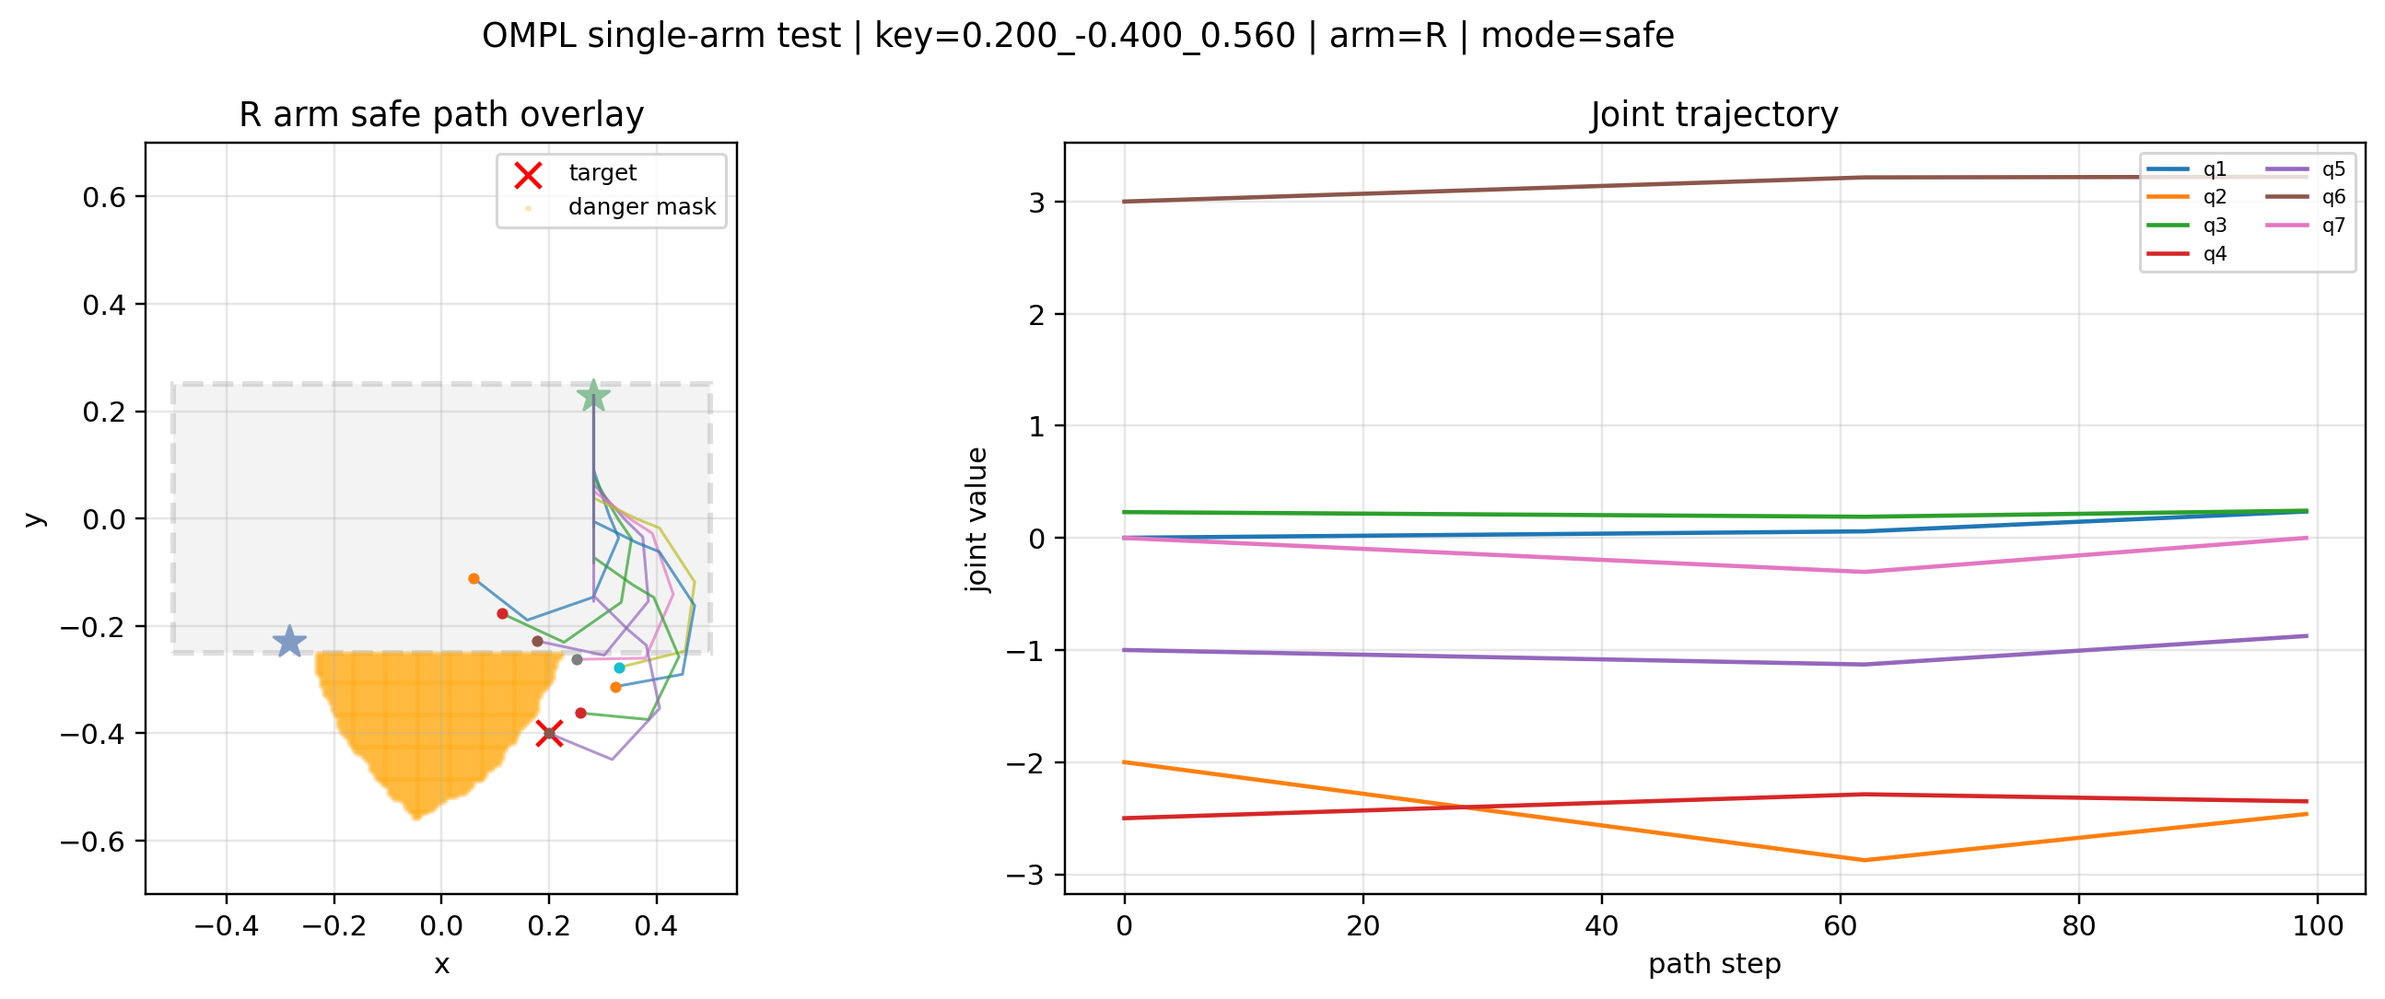
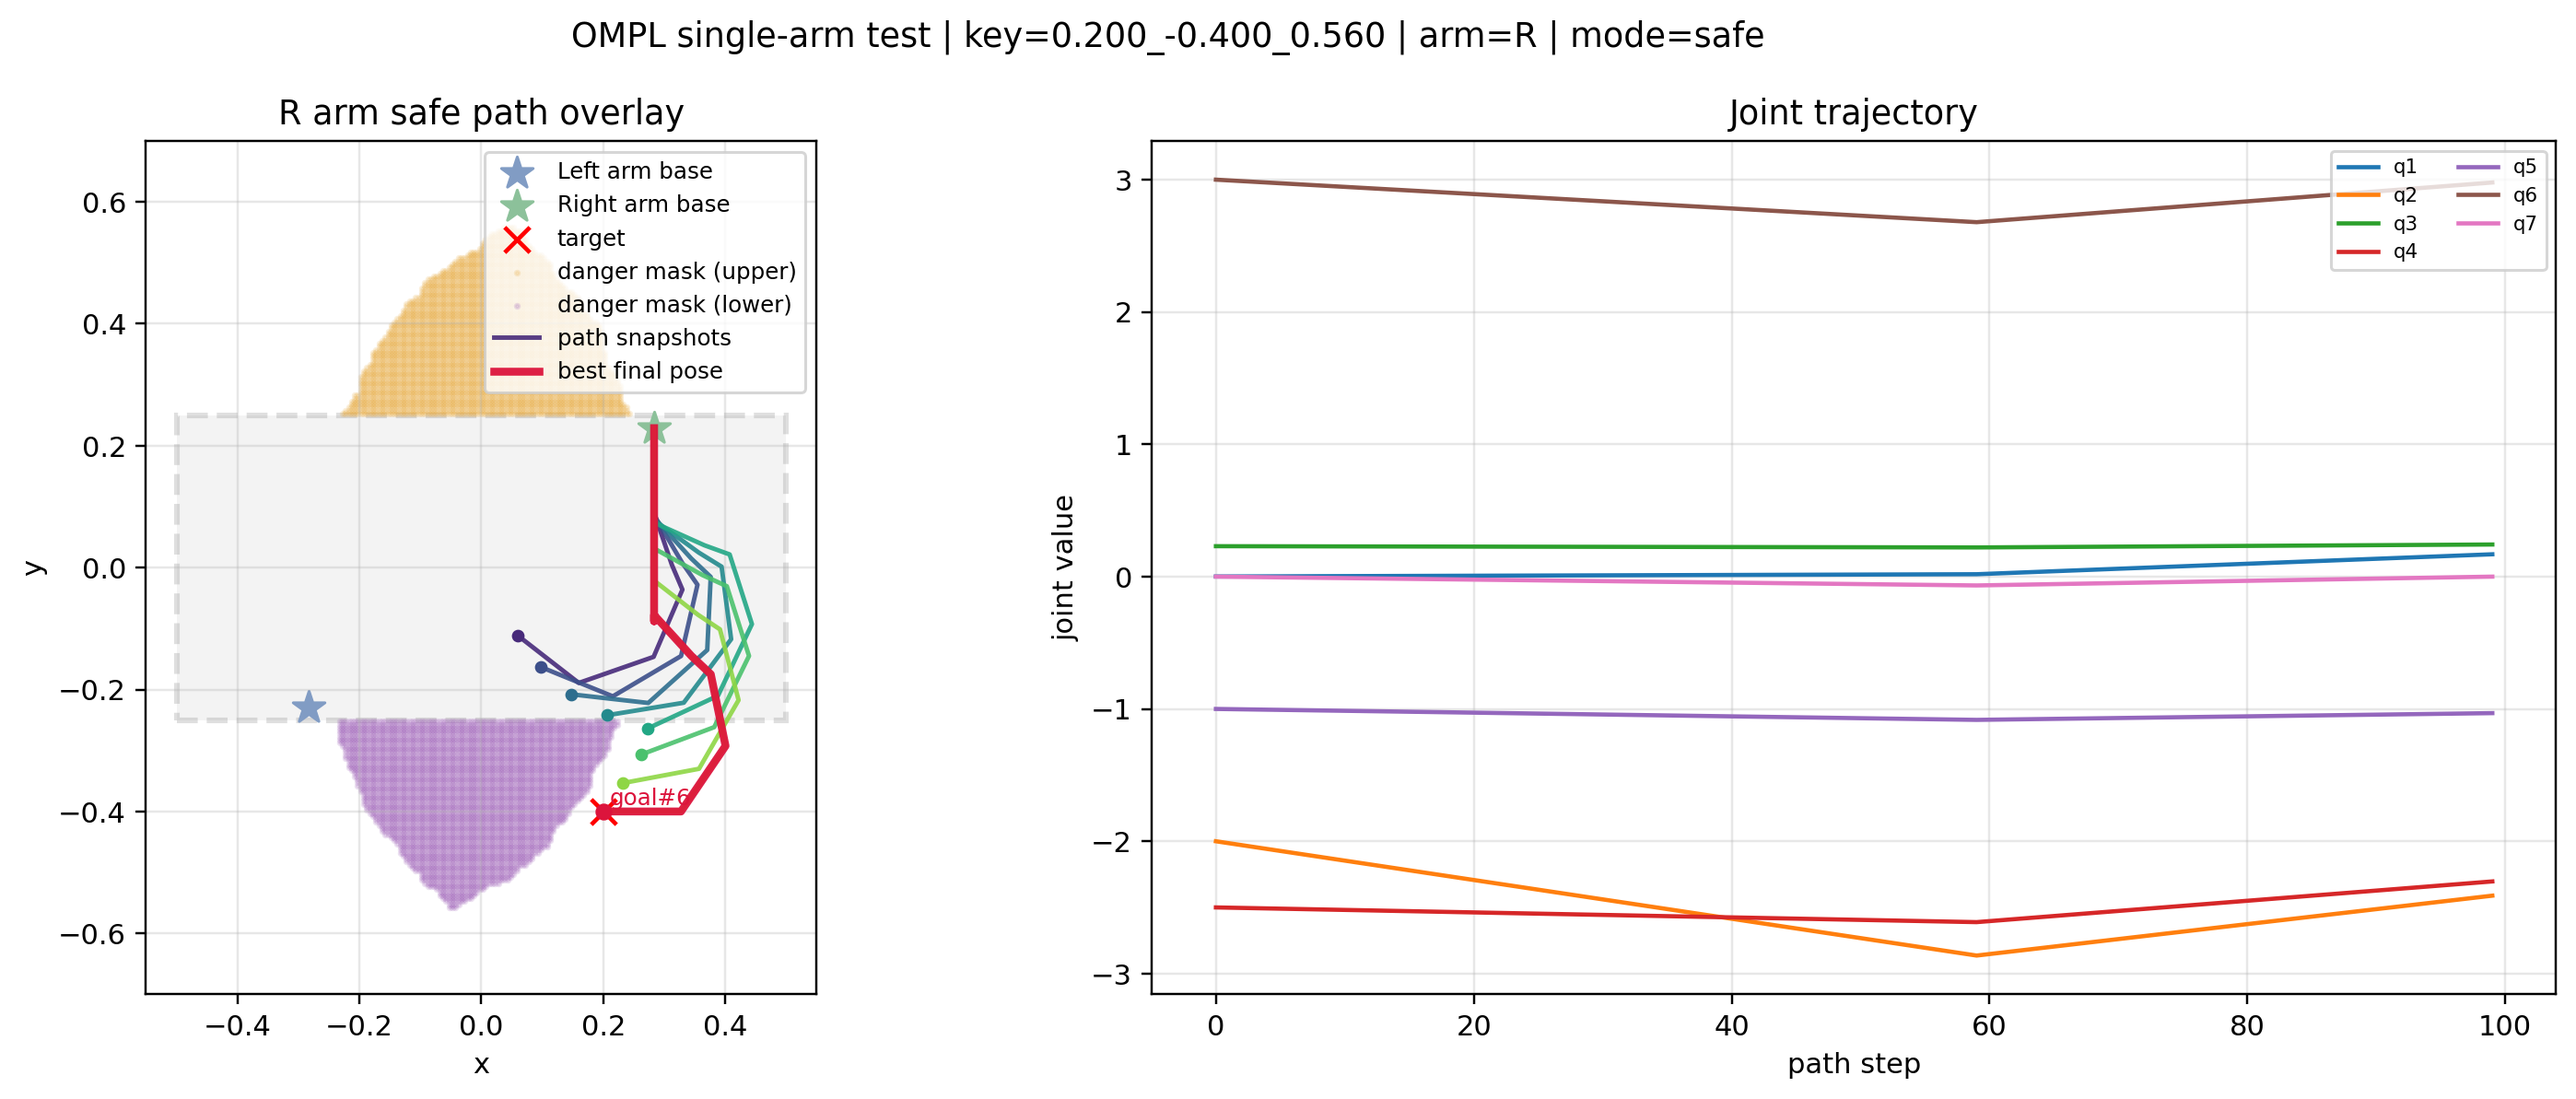
使用ompl生成了一些针对单个目标点的路径规划结果

diff --git a/ompl/test_ompl_single_arm_debug_auto.py b/ompl/test_ompl_single_arm_debug_auto.py
@@ -2,10 +2,12 @@
 """
 OMPL 单臂测试脚本（建议放到项目根目录的 ompl/ 文件夹内使用）
 - 默认从 ../roi/results/ 读取 roi_table_selected_points.pkl 和 danger_zone_data.npz
-- 优先使用 safe 终点解；若点本身在危险区，则直接跳过 safe 搜索转入 fallback
-- mode=auto 时按上述规则自动选择
-- mode=safe 时仅使用 safe 解
-- mode=free 时优先使用 fallback 解，若没有则退回全部 goal_solutions
+- mode=auto: 有 safe 解则优先 safe；若点本身在危险区，则直接使用 fallback/free
+- mode=safe: 只使用 safe 解
+- mode=free: 只使用 fallback 解；若没有则退回全部 goal_solutions
+- 可视化新增：
+    1) 所有 candidate goal 的终点姿态 -> 淡灰色骨架
+    2) best path 最终落到的终点姿态 -> 红色高亮骨架
 """
 import os
 import sys
@@ -193,7 +195,6 @@ def select_goals(arm_data, mode, point_in_danger):
     if mode == "free":
         return (fallback_goals or all_goals), "free"
 
-    # auto
     if point_in_danger:
         return (fallback_goals or all_goals), "free"
     if safe_goals:
@@ -209,25 +210,57 @@ def count_valid_goals(goals, chain, mask_obj):
     return valid
 
 
-def plot_result(out_png, key, arm, used_mode, point_xyz, danger, chain, q_path, T_left, T_right):
-    fig, axes = plt.subplots(1, 2, figsize=(13, 5))
+def nearest_goal_index(best_goal_q, candidate_goals):
+    if best_goal_q is None or not candidate_goals:
+        return None
+    d = [float(np.linalg.norm(np.asarray(g) - np.asarray(best_goal_q))) for g in candidate_goals]
+    return int(np.argmin(d))
+
+
+def plot_result(out_png, key, arm, used_mode, point_xyz, masks_dict, chain, q_path, T_left, T_right, candidate_goals):
+    fig, axes = plt.subplots(1, 2, figsize=(14, 5.5))
+
     ax = axes[0]
     veh = patches.Rectangle((-0.50, -0.25), 1.0, 0.50, linewidth=2, edgecolor="gray", facecolor="lightgray", alpha=0.25, linestyle="--")
     ax.add_patch(veh)
-    ax.scatter(T_left[0, 3], T_left[1, 3], c="#819CC4", marker="*", s=140)
-    ax.scatter(T_right[0, 3], T_right[1, 3], c="#8CC19A", marker="*", s=140)
+    ax.scatter(T_left[0, 3], T_left[1, 3], c="#819CC4", marker="*", s=140, label="Left arm base")
+    ax.scatter(T_right[0, 3], T_right[1, 3], c="#8CC19A", marker="*", s=140, label="Right arm base")
     ax.scatter([point_xyz[0]], [point_xyz[1]], c="red", marker="x", s=80, label="target")
-    if danger is not None:
-        ix, iy = np.where(danger.grid)
-        xs = danger.x_min + (ix + 0.5) * danger.res
-        ys = danger.y_min + (iy + 0.5) * danger.res
-        ax.scatter(xs, ys, s=2, c="orange", alpha=0.2, label="danger mask")
-    if q_path is not None:
+
+    if masks_dict is not None:
+        du = masks_dict["upper"]
+        ix, iy = np.where(du.grid)
+        xs = du.x_min + (ix + 0.5) * du.res
+        ys = du.y_min + (iy + 0.5) * du.res
+        ax.scatter(xs, ys, s=2, c="#e8a838", alpha=0.18, label="danger mask (upper)")
+
+        dl = masks_dict["lower"]
+        ix, iy = np.where(dl.grid)
+        xs = dl.x_min + (ix + 0.5) * dl.res
+        ys = dl.y_min + (iy + 0.5) * dl.res
+        ax.scatter(xs, ys, s=2, c="#9b59b6", alpha=0.18, label="danger mask (lower)")
+
+    # 2) sampled robot postures along the best path (time progression)
+    best_goal_q = None
+    if q_path is not None and len(q_path) > 0:
+        best_goal_q = q_path[-1]
         idxs = np.linspace(0, len(q_path) - 1, min(8, len(q_path))).astype(int)
-        for idx in idxs:
+        cmap = plt.cm.viridis(np.linspace(0.12, 0.95, len(idxs)))
+        for k, idx in enumerate(idxs):
             pts = chain.fk_all_frames(q_path[idx])
-            ax.plot(pts[:, 0], pts[:, 1], "-", lw=1.0, alpha=0.7)
-            ax.plot(pts[-1, 0], pts[-1, 1], "o", ms=3)
+            label = "path snapshots" if k == 0 else None
+            ax.plot(pts[:, 0], pts[:, 1], "-", lw=1.6, alpha=0.9, color=cmap[k], label=label, zorder=2)
+            ax.plot(pts[-1, 0], pts[-1, 1], "o", ms=3.5, color=cmap[k], zorder=2)
+
+    # 3) highlight final chosen goal pose
+    if best_goal_q is not None:
+        pts = chain.fk_all_frames(best_goal_q)
+        ax.plot(pts[:, 0], pts[:, 1], "-", lw=2.8, alpha=0.95, color="crimson", label="best final pose", zorder=3)
+        ax.plot(pts[-1, 0], pts[-1, 1], "o", ms=5, color="crimson", zorder=3)
+        goal_idx = nearest_goal_index(best_goal_q, candidate_goals)
+        if goal_idx is not None:
+            ax.text(pts[-1, 0] + 0.01, pts[-1, 1] + 0.01, f"goal#{goal_idx}", fontsize=8, color="crimson")
+
     ax.set_title(f"{arm} arm {used_mode} path overlay")
     ax.set_xlabel("x")
     ax.set_ylabel("y")
@@ -237,6 +270,7 @@ def plot_result(out_png, key, arm, used_mode, point_xyz, danger, chain, q_path, 
     ax.grid(True, alpha=0.3)
     ax.legend(loc="upper right", fontsize=8)
 
+    # joint trajectory plot
     ax2 = axes[1]
     if q_path is not None:
         for j in range(q_path.shape[1]):
@@ -258,6 +292,7 @@ def main():
     cfg = dict(BASE_CONFIG)
     with open(args.roi_pkl, "rb") as f:
         roi = pickle.load(f)
+
     item = roi["data"][args.key]
     point_xyz = item["vehicle_xyz"]
     half = item.get("half", "upper" if point_xyz[1] >= 0.25 else "lower")
@@ -266,7 +301,8 @@ def main():
     arm_data = item[arm_key]
 
     masks = load_masks(args.danger_npz)
-    active_mask = masks[half] if args.mode in ("safe", "auto") else None
+    vis_mask = masks[half]
+    active_mask = vis_mask if args.mode in ("safe", "auto") else None
     used_goals, used_mode = select_goals(arm_data, args.mode, point_in_danger)
     if not used_goals:
         raise RuntimeError(f"No candidate goals for {args.arm} @ {args.key} under mode={args.mode}")
@@ -277,7 +313,6 @@ def main():
     q_home = np.asarray(cfg["q_seed"], dtype=float)
     space = build_space(chain.joint_limits)
 
-    # For safe/auto-safe, prune invalid terminal states before planning
     planner_mask = active_mask if used_mode == "safe" else None
     if used_mode == "safe":
         valid_goals = count_valid_goals(used_goals, chain, planner_mask)
@@ -289,19 +324,20 @@ def main():
     if not used_goals:
         print("[result] no valid goal states before planning", flush=True)
         out_png = os.path.join(OMPL_RESULTS_DIR, f"ompl_test_{args.arm}_{args.key.replace('.', 'p')}_{used_mode}.png")
-        plot_result(out_png, args.key, args.arm, used_mode, point_xyz, planner_mask, chain, None, T_left, T_right)
+        plot_result(out_png, args.key, args.arm, used_mode, point_xyz, masks, chain, None, T_left, T_right, [])
         return
 
     best_path, best_cost = None, None
     for trial in range(args.num_trials):
-        q_path = plan_one_trial(space, chain.joint_limits, q_home, used_goals, chain, planner_mask, args.solve_time, args.resolution, args.planner, args.interpolate_count)
+        q_path = plan_one_trial(space, chain.joint_limits, q_home, used_goals, chain, planner_mask,
+                                args.solve_time, args.resolution, args.planner, args.interpolate_count)
         c = path_time(q_path)
         print(f"[trial {trial+1}/{args.num_trials}] success={q_path is not None} cost={c}", flush=True)
         if q_path is not None and (best_cost is None or c < best_cost):
             best_cost, best_path = c, q_path
 
     out_png = os.path.join(OMPL_RESULTS_DIR, f"ompl_test_{args.arm}_{args.key.replace('.', 'p')}_{used_mode}.png")
-    plot_result(out_png, args.key, args.arm, used_mode, point_xyz, planner_mask, chain, best_path, T_left, T_right)
+    plot_result(out_png, args.key, args.arm, used_mode, point_xyz, masks, chain, best_path, T_left, T_right, used_goals)
     if best_path is None:
         print("[result] no path found", flush=True)
     else:
